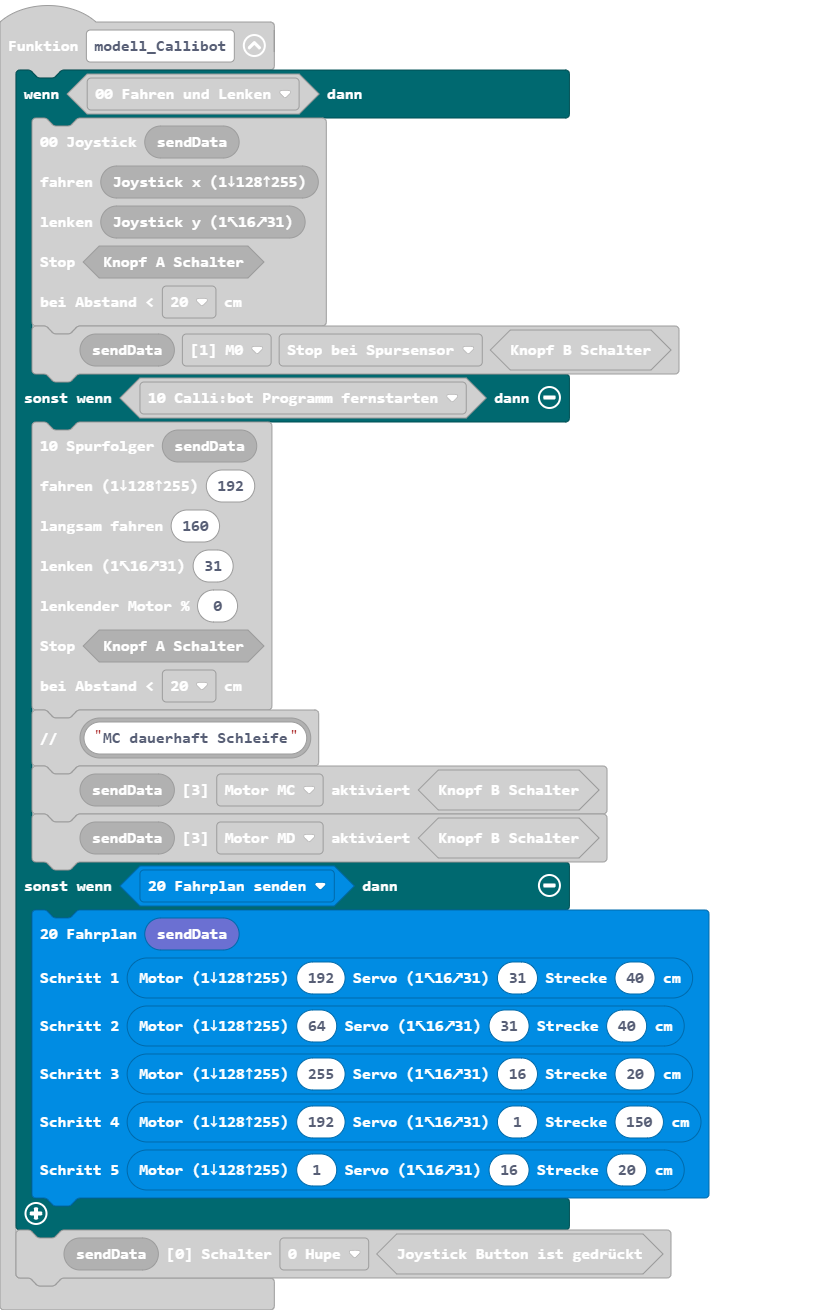
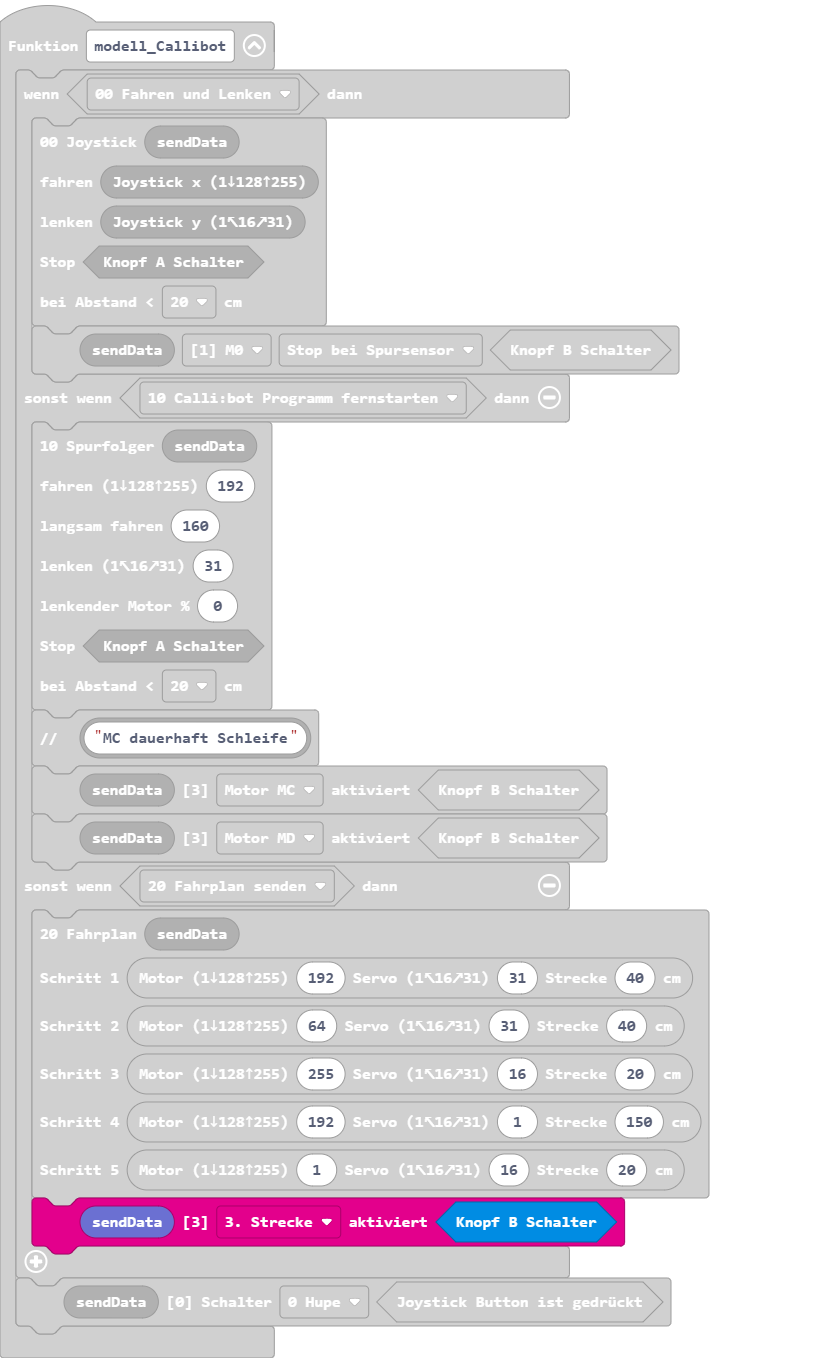
Aktualisiere pxt.json, main.blocks, main.ts

diff --git a/main.ts b/main.ts
@@ -30,6 +30,7 @@ function modell_Callibot () {
         sender.sender_programmSchritt(192, 1, 150),
         sender.sender_programmSchritt(1, 16, 20)
         )
+        btf.setaktiviert(btf.btf_sendBuffer19(), btf.e3aktiviert.f3, sender.sender_ButtonB_Switch())
     }
     btf.setSchalter(btf.btf_sendBuffer19(), btf.e0Schalter.b0, sender.joystickButtonPosition())
 }
